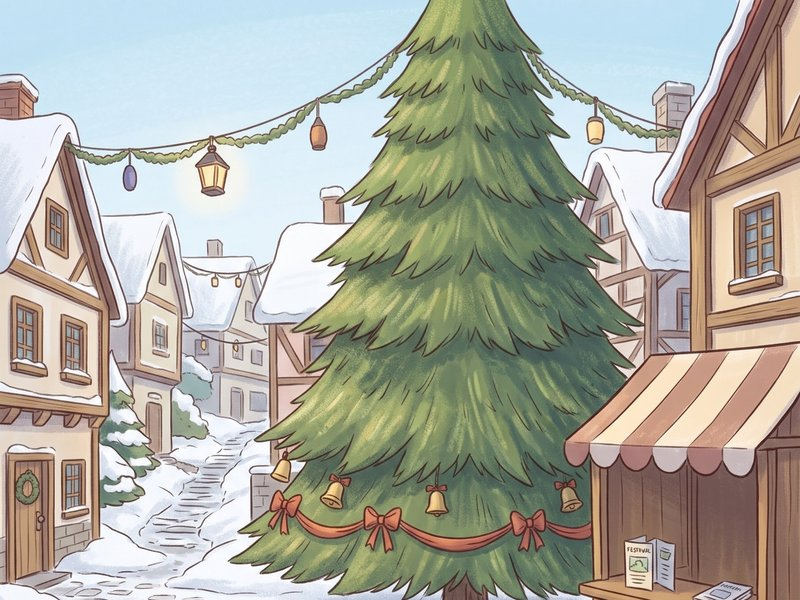
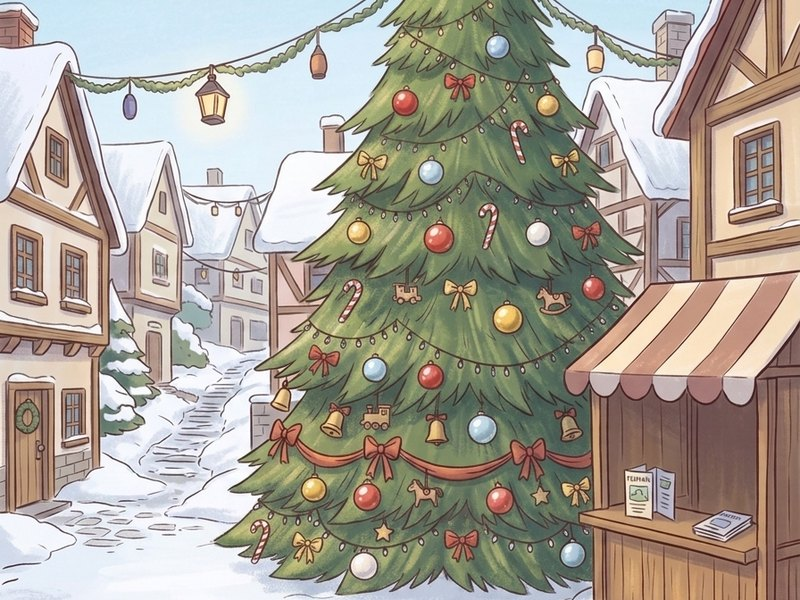
Christmas square: the day tree is decorated (Higgsfield edit, user request); day picture, floor and case-list photo recut

diff --git a/index.html b/index.html
@@ -7253,7 +7253,9 @@ const ART_FLOOR = {
   backstage:{ src:'assets/places/violin/backstage-floor.jpg', h:825 },
   // the Christmas star case: one tall picture each
   // the night and the lit square have their own darker floor (user: a day floor under the night picture looked wrong)
-  tree:     { get src(){ return `assets/places/christmas/tree-floor${S.flags?.has('lit') ? '-lit' : S.flags?.has('night') ? '-night' : ''}.jpg`; }, h:745 },
+  // the day square is the decorated tree (user request), cut lower, so its floor is shorter than the night and lit ones
+  tree:     { get src(){ return `assets/places/christmas/tree-floor${S.flags?.has('lit') ? '-lit' : S.flags?.has('night') ? '-night' : ''}.jpg`; },
+              get h(){ return S.flags?.has('lit') || S.flags?.has('night') ? 745 : 675; } },
   storeroom:{ src:'assets/places/christmas/storeroom-floor.jpg', h:695 },
   tent:     { src:'assets/places/christmas/tent-floor.jpg', h:555 },
   sleigh:   { src:'assets/places/christmas/sleigh-floor.jpg', h:815 }

diff --git a/scripts/make-christmas-decorated-tree.py b/scripts/make-christmas-decorated-tree.py
@@ -1,0 +1,14 @@
+# The decorated day square (user request): Higgsfield edit of tree-higgsfield-original.jpg with more ornaments,
+# tree-decorated-higgsfield-original.png (896x1200, its tree sits lower than the old one). Scaled to 1376x1843 as
+# scripts/cut-christmas-assets.py does; the band starts at 400 (not 330) so the tree's foot stays at the same height
+# in the picture; the rest is the floor (675 high, the old one 745). The case list photo is its upper 4:3.
+# Run from the project folder: python scripts/make-christmas-decorated-tree.py
+from PIL import Image
+D = 'assets/places/christmas/'
+src = Image.open(D + 'tree-decorated-higgsfield-original.png').convert('RGB')
+im = src.resize((1376, 1843), Image.LANCZOS)
+TOP = 400
+im.crop((0, TOP, 1376, TOP + 768)).save(D + 'tree.jpg', quality=88)
+im.crop((0, TOP + 768, 1376, 1843)).save(D + 'tree-floor.jpg', quality=85)
+src.crop((0, 80, 896, 752)).resize((800, 600), Image.LANCZOS).save(D + 'tree-cover.jpg', quality=86)
+print('floor', 1843 - TOP - 768)

diff --git a/HANDOFF.md b/HANDOFF.md
@@ -143,7 +143,7 @@ node server.js            # http://localhost:5173/
 ### 3.0.3 다섯째 사건: 사라진 크리스마스트리의 별 (`?case=christmas`)
 
 - **데이터**: `CHRISTMAS_CASE`(설계서 `design/case-10-christmas-star.md`). 사건 카드 Case 05(도서관 다음), 이번 사건의 열쇠 `GRAMMAR['present-prog']` 4쪽(긍정·부정·Are you -ing?·What are you -ing?, 설계서 §8 예문; 예문 음성 `audio/examples/present-prog-*.wav`는 아직 없음). 저장 키 `detective.save.christmas`. 단어장·노트 뜻에 이 사건의 빈칸 단어를 없는 것만 더했다(`WORDS`·`GLOSS`).
-- **그림**(Higgsfield, `assets/places/christmas/`·`assets/characters/`, 7절 README): 광장(낮·어둡게 한 밤·불 켜진 트리), 창고(저울을 가져가면 저울 없는 판), 천막(작업대 관찰 뒤 자동차 상자가 포장되고 클립보드 체크 넷), 썰매(상자를 열면 상자 속 금별; 저울은 들고 있어도 썰매 그림에 놓지 않음, 사용자 의견), 밤·점등 판 바닥(`tree-floor-night.jpg`은 낮 바닥 색을 맞춤, `tree-floor-lit.jpg`·하늘 `tree-lit-sky.jpg`은 점등 원본에서 자름, `scripts/make-christmas-night-pieces.py`; 하늘은 대화·엔딩 카메라에서만 그림 위에 붙음 `ART_SKY`), 창고 모퉁이 사진, 확대 조사 셋(장난감 작업대·별 장난감 뒷면·금별 뒷면, 흐린 장소 위), 축제장 지도(`PACK.map`). 장갑 상자를 누르면 그 자리에서 털장갑 상자가 잠깐 열렸다 닫힌다(`clue.peek`, `peekAt()`). 홀리·메이·니코와 니코 당황 표정(`nico:sad`도 같은 그림, 흰 스티커 테두리는 지움). 홀리·메이는 자기 장소에서 대화하지 않을 때 일하는 그림(`:work`), 대화를 열면 손을 멈추고 탐정을 보는 그림(기본 스프라이트, `spriteKey()`: `:work` 그림이 있으면 장소 화면·다른 사람과의 대화·엔딩에서 일하는 그림, 방문 중이면 기본). 말하는 입·얼굴 아이콘은 아직 없음. **점등 엔딩**(사용자 요청): "Merry Christmas!" 줄에서 말풍선·버튼을 숨기고 카메라가 트리를 타고 꼭대기 금별까지 천천히 올라갔다가(`peek`, 2.6초, 4초 머묾) 별과 넷이 다 보이는 넓은 화면으로 내려온 뒤(`wide.top`: 그림 위 300px까지 보이게) 엘라가 말한다. 불이 켜진 뒤로는 홀리·메이·엘라·테스가 뒷모습으로 트리를 보고, 말하는 사람만 앞을 본다(라운드의 `turn:'lit'`, `S.mood`=`back`, 뒷모습은 한 장 `xmas-backs-higgsfield-original.png`에서 `scripts/cut-christmas-backs.py`로 자름). **음성**(Higgsfield MiniMax, 감정 없음, `audio/christmas/`, 목록은 `scripts/christmas-voice-lines.js`가 게임 데이터에서 뽑음): 탐정 Grady 104문장(질문·행동·인사·생각·현장 관찰·소지품·추리 보드 `deduce/`·심문·마무리), 오소리 경사 Fraser 6줄, 엘라 Petra 12줄, 홀리 Mabel 6줄, 메이 Liza 5줄, 테스 Callan 9줄(우산 사건과 같은 목소리), 니코 Ian 19줄(사용자 결정: 모두 감정 없이), 같은 문장은 파일을 복사해 둠. 녹음 목록과 빠진 파일은 `scripts/christmas-voice-lines.js`로 확인(지금 빠진 것 없음).
+- **그림**(Higgsfield, `assets/places/christmas/`·`assets/characters/`, 7절 README): 광장(낮·어둡게 한 밤·불 켜진 트리; 낮 광장과 사건 목록 사진은 장식을 더한 트리 `tree-decorated-higgsfield-original.png`, `scripts/make-christmas-decorated-tree.py`로 자르고 바닥이 675로 짧음 — 밤·점등 그림은 아직 예전 트리), 창고(저울을 가져가면 저울 없는 판), 천막(작업대 관찰 뒤 자동차 상자가 포장되고 클립보드 체크 넷), 썰매(상자를 열면 상자 속 금별; 저울은 들고 있어도 썰매 그림에 놓지 않음, 사용자 의견), 밤·점등 판 바닥(`tree-floor-night.jpg`은 낮 바닥 색을 맞춤, `tree-floor-lit.jpg`·하늘 `tree-lit-sky.jpg`은 점등 원본에서 자름, `scripts/make-christmas-night-pieces.py`; 하늘은 대화·엔딩 카메라에서만 그림 위에 붙음 `ART_SKY`), 창고 모퉁이 사진, 확대 조사 셋(장난감 작업대·별 장난감 뒷면·금별 뒷면, 흐린 장소 위), 축제장 지도(`PACK.map`). 장갑 상자를 누르면 그 자리에서 털장갑 상자가 잠깐 열렸다 닫힌다(`clue.peek`, `peekAt()`). 홀리·메이·니코와 니코 당황 표정(`nico:sad`도 같은 그림, 흰 스티커 테두리는 지움). 홀리·메이는 자기 장소에서 대화하지 않을 때 일하는 그림(`:work`), 대화를 열면 손을 멈추고 탐정을 보는 그림(기본 스프라이트, `spriteKey()`: `:work` 그림이 있으면 장소 화면·다른 사람과의 대화·엔딩에서 일하는 그림, 방문 중이면 기본). 말하는 입·얼굴 아이콘은 아직 없음. **점등 엔딩**(사용자 요청): "Merry Christmas!" 줄에서 말풍선·버튼을 숨기고 카메라가 트리를 타고 꼭대기 금별까지 천천히 올라갔다가(`peek`, 2.6초, 4초 머묾) 별과 넷이 다 보이는 넓은 화면으로 내려온 뒤(`wide.top`: 그림 위 300px까지 보이게) 엘라가 말한다. 불이 켜진 뒤로는 홀리·메이·엘라·테스가 뒷모습으로 트리를 보고, 말하는 사람만 앞을 본다(라운드의 `turn:'lit'`, `S.mood`=`back`, 뒷모습은 한 장 `xmas-backs-higgsfield-original.png`에서 `scripts/cut-christmas-backs.py`로 자름). **음성**(Higgsfield MiniMax, 감정 없음, `audio/christmas/`, 목록은 `scripts/christmas-voice-lines.js`가 게임 데이터에서 뽑음): 탐정 Grady 104문장(질문·행동·인사·생각·현장 관찰·소지품·추리 보드 `deduce/`·심문·마무리), 오소리 경사 Fraser 6줄, 엘라 Petra 12줄, 홀리 Mabel 6줄, 메이 Liza 5줄, 테스 Callan 9줄(우산 사건과 같은 목소리), 니코 Ian 19줄(사용자 결정: 모두 감정 없이), 같은 문장은 파일을 복사해 둠. 녹음 목록과 빠진 파일은 `scripts/christmas-voice-lines.js`로 확인(지금 빠진 것 없음).
 - **흐름**: 경사(광장 입구) → 첫 질문 b0 "What's missing?" 받아 적기(빈칸 Ella · information desk) → 노트를 닫으면 경사가 떠나(`gone:['badger:b0']`) 광장으로 돌아가고 안내소에 엘라(`unlocks.b0`, 생각 대사 없음) → 엘라 e0 → e1·e2(e2로 창고·이름 없는 양 홀리, 엘라의 물품 확인 허락 `after`) → 창고 사진(보관함 → 반짝이, 바깥 자국)·홀리 h1–h4(h4는 바깥 자국 사진 뒤) → h3로 천막의 메이·테스 → 테스는 받아쓰기 없는 행동 두 개(별 목격·창고 이유) 뒤 t1, `장난감들을 봐도 돼?`(확대 조사 `toys`, c-toys·장난감 자동차) → t3로 썰매의 니코(`unnamed:'Penguin'`) → 니코 n1–n5(창고 이유는 행동, n5는 썰매 바닥 사진 뒤) → n4 뒤 생각 → 테스 t4·`뒷면을 봐도 돼?`(확대 조사 `toystar`) → 썰매에서 `Tess's table` 관찰(`!table-seen`) → 추리 9문항 → `니코 심문 시작`.
 - **심문**(`ending.script`): 탐정의 선택 대사 → 주장 셋(테스의 선물 t3/c-toys, 메이 m3, 테스의 별 t4/c-toy-star; 틀리면 그 주장의 탐정 줄 `miss`) → 경사·엘라가 썰매에 합류(`join`, `PACK.lateJoin`·`joinPositions`)·개봉 지시(`open-order` 깃발) → **심문 멈춤**(`scene:'sleigh', until:['starback-0']`): 심문 화면이 닫히고 썰매 현장으로. 상자 다섯 중 장갑 상자는 "Just mittens in this one.", 셋째 상자를 열면 금별이 소지품에 들어오고(`box-open`) 상자 속 별 사진 → `Back of the star`(확대 조사 `starback`, `back:'sleigh'`) 사진을 찍고 노트를 닫으면 심문이 다음 주장부터 다시(게이지 그대로, `S.scriptPause`). 멈춘 동안 지도로 창고에 다녀올 수 있고, 창고 구석 저울은 개봉 지시 뒤에 주울 수 있다. **저울 쓰기**(사용자 선택 시안): 썰매에서 `소지품` → 저울 → `쓰기`(`items.scale.use`: 개봉 지시 뒤·상자를 열기 전, 썰매에서만) → 확대 조사 `weigh`(흐린 썰매 위 저울과 그 아래 상자 다섯 줄, 썰매와 같은 순서). 상자를 누르면 빈 접시로 올라가고(둘 다 차 있으면 오른쪽과 바뀜), 접시 위 상자를 누르면 내려온다. 무거운 쪽으로 8° 기울고 같으면 수평(`balance.weights` 1·1·3·1·1, 셋째가 별), 탐정은 말하지 않는다. 저울 그림 한 장을 팔 둘·접시 둘·기둥으로 잘라 돌린다(`WEIGH`, `weighArt()`, `plates`). `<`로 썰매에 돌아간다(`back:'sleigh'`). 테스트 도구는 이 상자들을 증거로 모으지 않는다. → 별이 아니라는 주장에 c-mark → 자백·경사가 니코를 데려감(니코·경사 `gone:['!confessed']`).
 - **반환·점등식**(`ending.handoff`): 썰매 앞의 엘라에게 이동 없이 금별 건네기 → 엘라의 초대 → `트리 광장으로 가기`: 그 차례의 `visit`로 엘라·홀리·메이·테스가 광장에 서고 `flag:'night'`(밤), "Merry Christmas!" 줄의 `flag:'lit'`(불 켜진 트리)와 `wide:{ x, w }`(사용자 요청: 엘라만 보이지 않게, 카메라가 천천히 뒤로 빠져 켜진 트리 앞의 엘라·홀리·메이·테스를 한 화면에, `ending.wide`가 있으면 `focusCamera()`가 그 폭에 맞춤, 마지막 탐정 줄까지 유지; 광장에 선 자리는 홀리 40·메이 48.5·엘라 58·테스 67%) → 복습.
